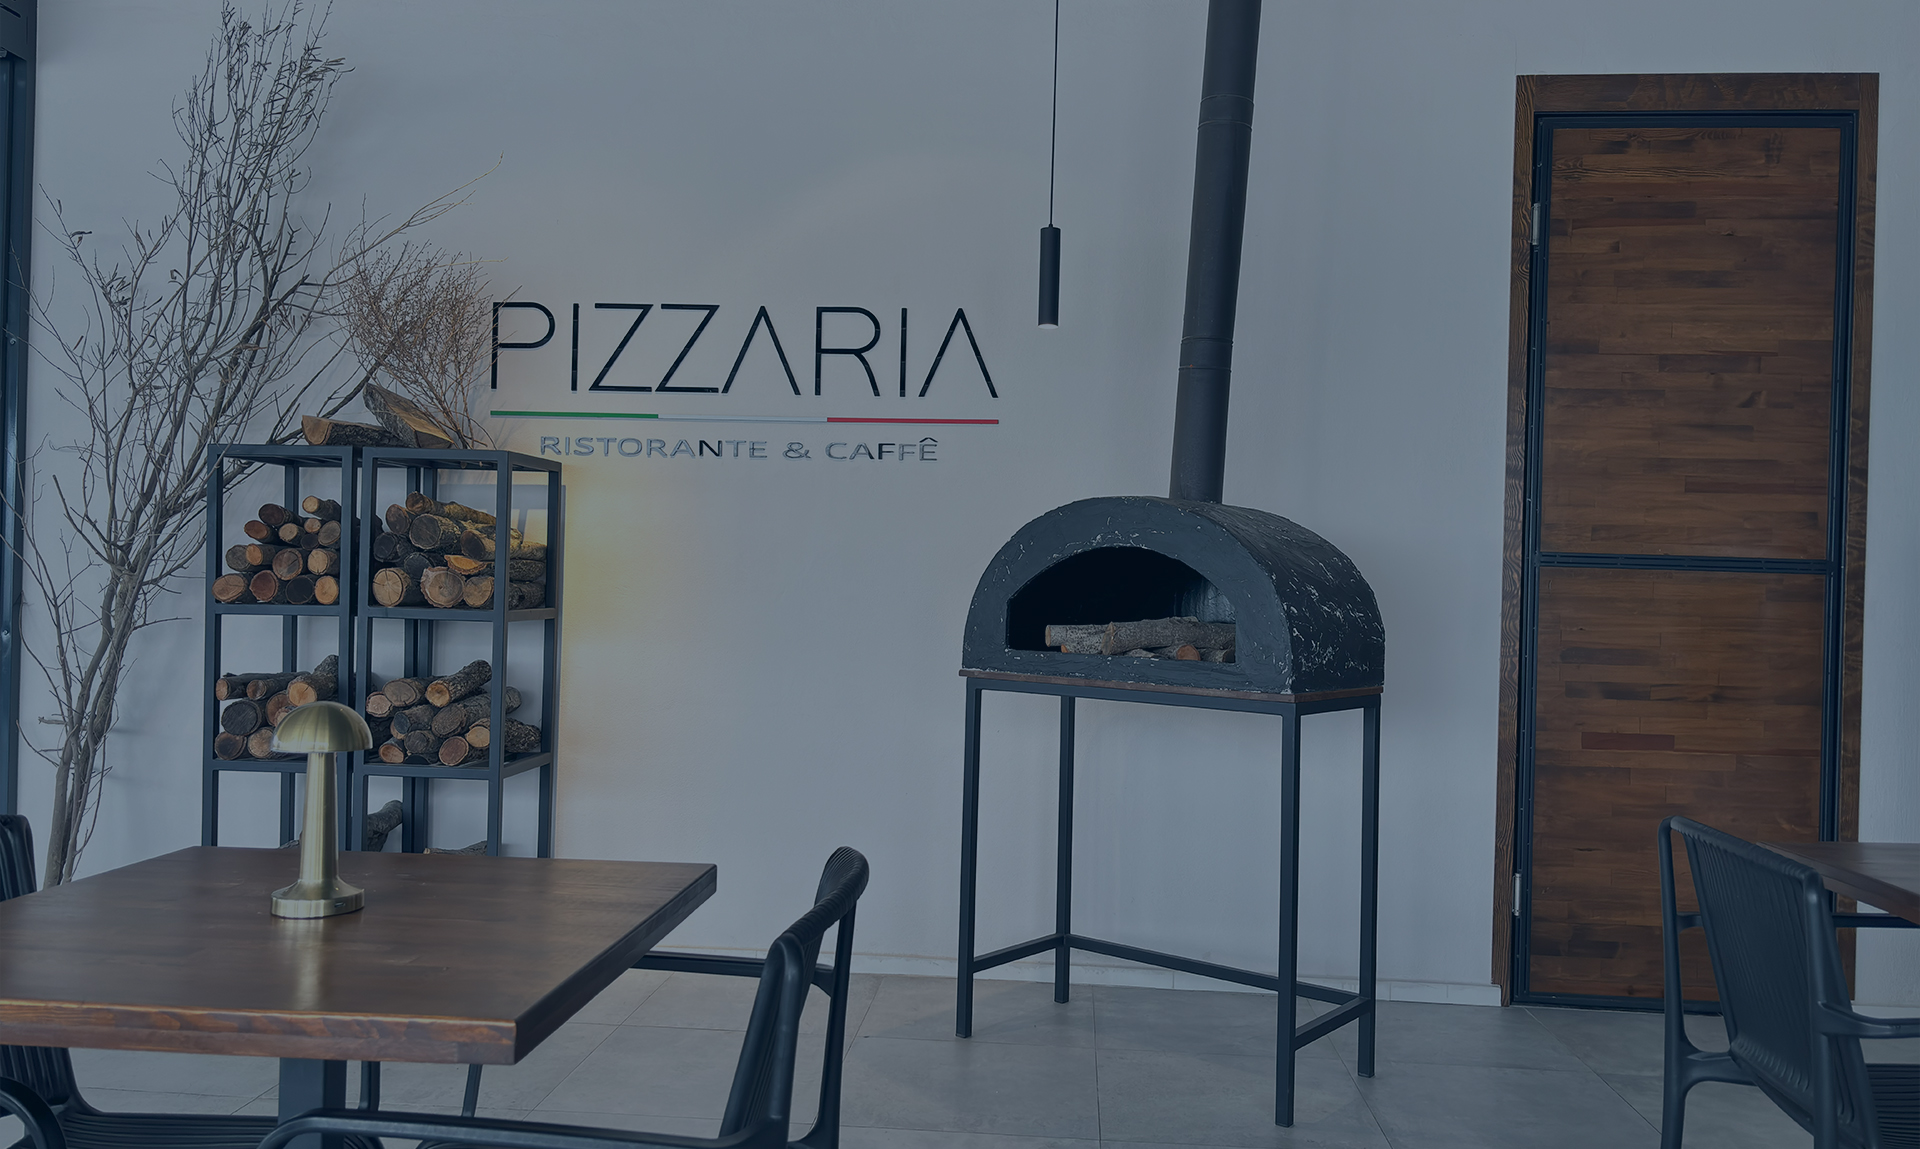
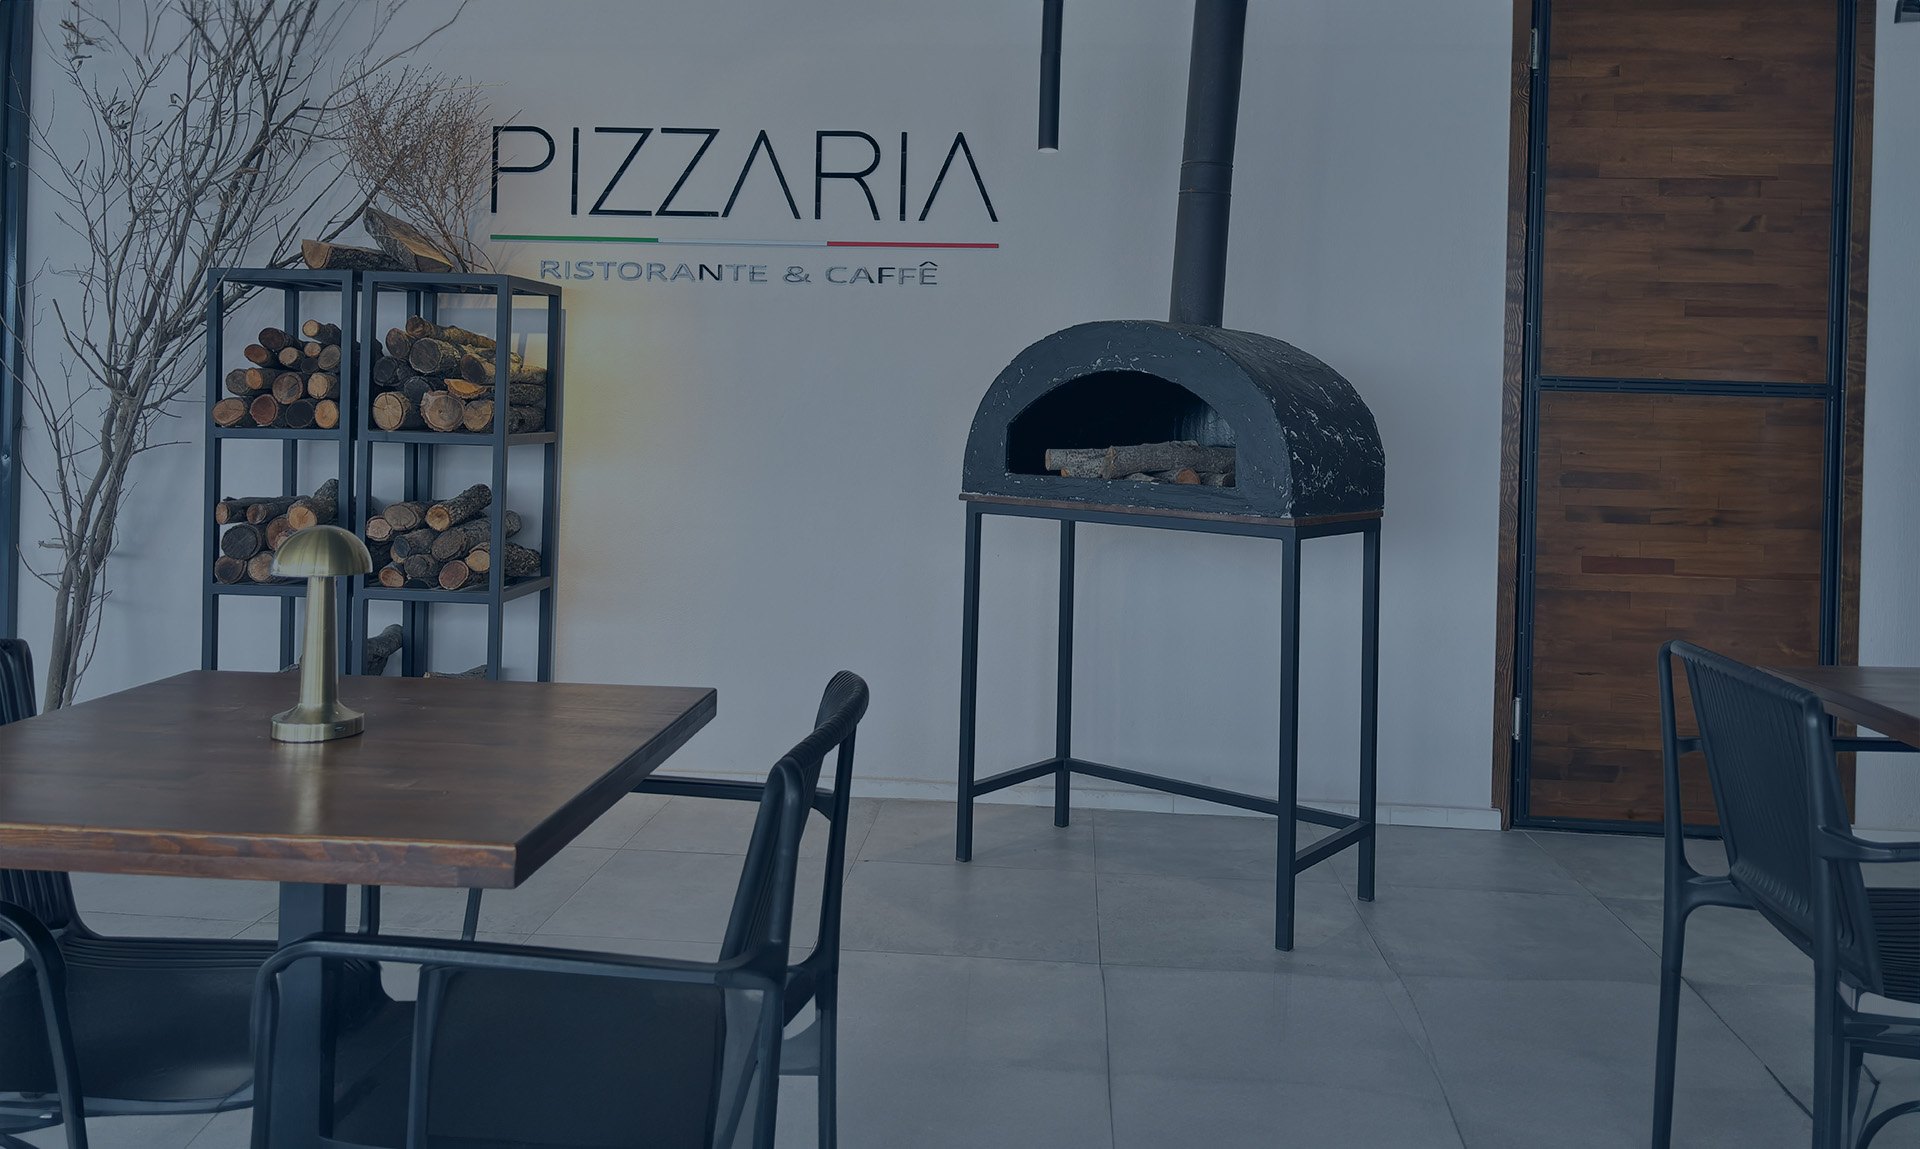
update

diff --git a/index.html b/index.html
@@ -251,50 +251,6 @@
                                     <img src="images/home/slider/slider-03.jpg" alt="pizza" style="opacity: 0.06;">
                                 </div>
                                 <!-- end black line image layer -->
-                                <!-- start tomato image layer -->
-                                <div class="tp-caption tp-resizeme rs-parallaxlevel-1 left-side-image-layer"
-                                     data-frames='[{"delay":2600,"speed":1000,"frame":"0","from":"x:-100px;opacity:0;fb:10px;","to":"o:1;x:0px;fb:0;","ease":"Power3.easeInOut"},{"delay":"wait","speed":300,"frame":"999","to":"opacity:0;","ease":"Power3.easeInOut"}]'
-                                     data-visibility="['on','on','off','off']"
-                                     data-x="['left','left','right','center']"
-                                     data-y="['middle','middle','top','bottom']"
-                                     data-hoffset="['-125','-100','50','0']"
-                                     data-voffset="['-100','0','50','50']"
-                                     data-width="['100%','100%','auto','auto']"
-                                     data-height="['auto','auto','auto','auto']"
-                                     data-whitespace="['normal','normal','nowrap','normal']"
-                                     data-paddingtop="[0,0,0,0]"
-                                     data-paddingright="[0,0,0,0]"
-                                     data-paddingbottom="[0,0,0,0]"
-                                     data-paddingleft="[0,0,0,0]"
-                                     data-type="image"
-                                     data-basealign="slide"
-                                     data-responsive_offset="on"
-                                     data-responsive="on">
-                                    <img src="images/home/neden-biz-01.png" alt="pizza" data-ww="['17%','24%','auto','auto']" data-hh="auto" data-no-retina>
-                                </div>
-                                <!-- end tomato image layer -->
-                                <!-- start peppers image layer -->
-                                <div class="tp-caption tp-resizeme rs-parallaxlevel-1 right-side-image-layer"
-                                     data-frames='[{"delay":2600,"speed":1000,"frame":"0","from":"x:100px;opacity:0;fb:10px;","to":"o:1;x:0px;fb:0;","ease":"Power3.easeInOut"},{"delay":"wait","speed":300,"frame":"999","to":"opacity:0;","ease":"Power3.easeInOut"}]'
-                                     data-visibility="['on','on','off','off']"
-                                     data-x="['right','center','right','center']"
-                                     data-y="['middle','middle','top','bottom']"
-                                     data-hoffset="['150','0','50','0']"
-                                     data-voffset="['-400','0','50','50']"
-                                     data-width="['100%','auto','auto','auto']"
-                                     data-height="['auto','auto','auto','auto']"
-                                     data-whitespace="['normal','normal','nowrap','normal']"
-                                     data-paddingtop="[0,0,0,0]"
-                                     data-paddingright="[0,0,0,0]"
-                                     data-paddingbottom="[0,0,0,0]"
-                                     data-paddingleft="[0,0,0,0]"
-                                     data-type="image"
-                                     data-basealign="slide"
-                                     data-responsive_offset="on"
-                                     data-responsive="on">
-                                    <img src="images/home/neden-biz-02.png" alt="pizza" data-ww="22%" data-hh="auto" data-no-retina>
-                                </div>
-                                <!-- end peppers image layer -->
                                 <!-- start pizza image layer -->
                                 <div class="tp-caption tp-resizeme pizza-image-later"
                                      data-frames='[{"delay":1000,"speed":1500,"frame":"0","from":"y:100px;opacity:0;","to":"o:1;","ease":"Power4.easeOut"},
@@ -318,28 +274,6 @@
                                     </div>
                                 </div>
                                 <!-- end pizza image layer -->
-                                <!-- start big text image layer -->
-                                <div class="tp-caption tp-resizeme slider__logo--df"
-                                     data-frames='[{"delay":1900,"speed":1500,"frame":"0","from":"y:80px;opacity:0;fb:50px;","to":"o:1;fb:0;","ease":"Power1.easeOut"},{"delay":"wait","speed":300,"frame":"999","to":"opacity:0;fb:0;","ease":"Power3.easeInOut"}]'
-                                     data-visibility="['on','on','on','on']"
-                                     data-x="['center','center','center','center']"
-                                     data-y="['top','top','top','top']"
-                                     data-hoffset="['0','0','0','0']"
-                                     data-voffset="['75','75','75','75']"
-                                     data-width="['940','800','700','450']"
-                                     data-height="['auto','auto','auto','auto']"
-                                     data-whitespace="['normal','nowrap','nowrap','normal']"
-                                     data-paddingtop="[0,0,0,0]"
-                                     data-paddingright="[0,0,0,0]"
-                                     data-paddingbottom="[0,0,0,0]"
-                                     data-paddingleft="[0,0,0,0]"
-                                     data-type="image"
-                                     data-basealign="slide"
-                                     data-responsive_offset="on"
-                                     data-responsive="on">
-                                    <img src="images/home/slider/slider-12-01.png" data-ww="100%" data-hh="auto" alt="text" class="slider__logo--wd">
-                                </div>
-                                <!-- end big text image layer -->
                                 <!-- start small text image layer -->
                                 <!--<div class="tp-caption tp-resizeme"
                                      data-frames='[{"delay":1500,"speed":1000,"frame":"0","from":"y:50px;opacity:0;","to":"o:1;","ease":"power3.inOut"},
